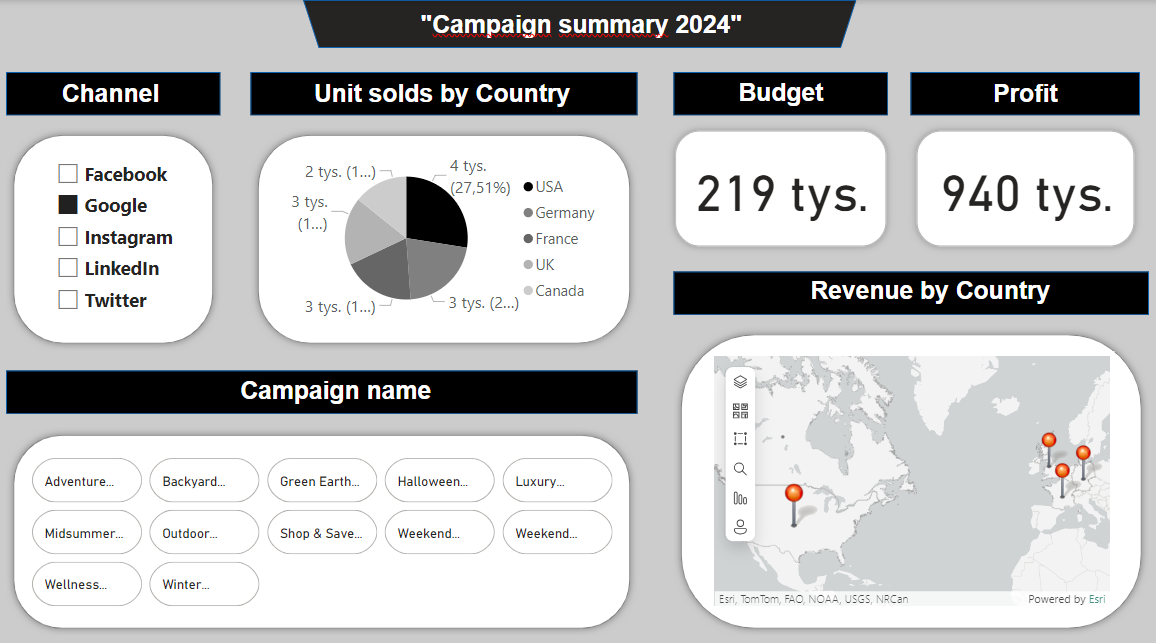
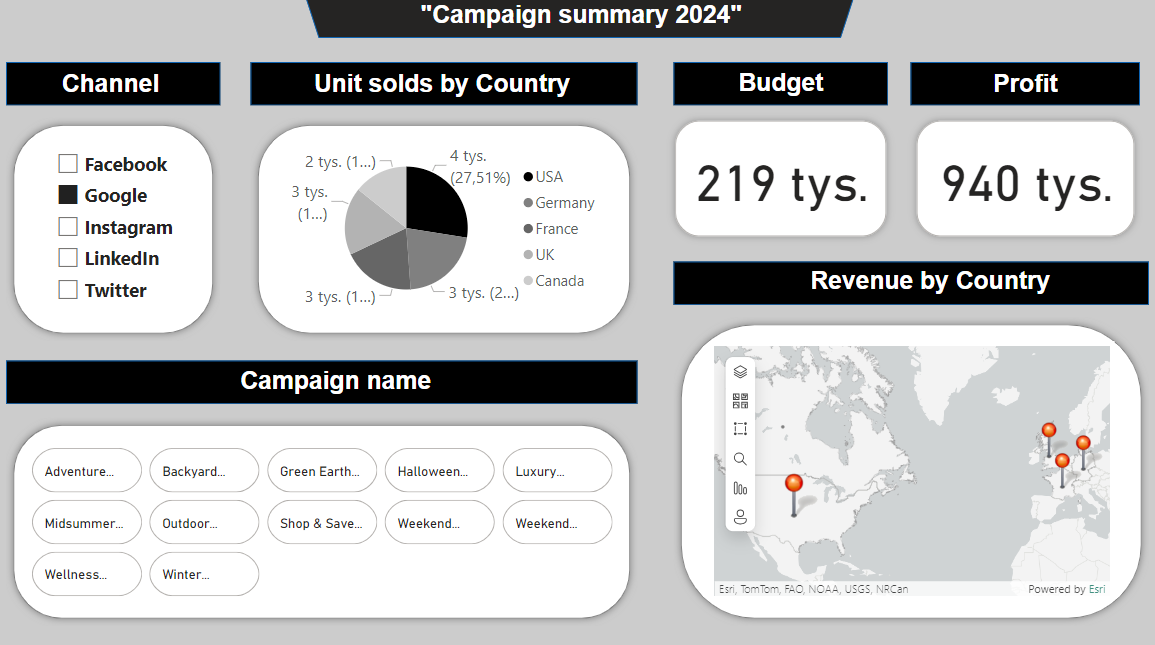
Naprawa błędu w img campaign

diff --git a/README.md b/README.md
@@ -1,1 +1,84 @@
-# Campaign-Insights-User-Analytics
+# Campaign Summary 2024
+
+## Project description
+
+Project Power BI is introducing a summary of the marketing campaign in 2024. It contains sales results, a profit analysis, and interaction with users across various marketing channels like Facebook, Google, Instagram, LinkedIn, and Twitter.  
+
+## Report structure
+
+The report consists of two main pages:
+
+1. **Campaign Summary**: This page presents the most important data of the campaign, such as the budget, profit, number of units sold, and analysis by country.
+
+2. **Second Hand Information**: This second page consists of a detailed analysis of conversions, the number of page visitors, profit analysis, and visitors by country.
+
+## Table of Contents
+- [Page 1](#campaign-summary-2024)
+- [Page 2](#second-hand-information)
+- [Data sources](#data-sources)
+- [Instruction manual](#instruction-manual)
+- [Crucial pointers (KPI)](#crucial-pointers-kpi)
+- [System requirements](#system-requirements)
+- [Authors](#authors)
+
+## Campaign Summary 2024:
+![Page 1](img/Campaign%20summary%202024.png)
+
+1) **Marketing channels**:
+   - Opportunities to filter data by your chosen channels (Facebook, Google, Instagram, LinkedIn, Twitter).
+
+2) **Unit sales by country**: 
+   - Pie chart visualizes the number of sold units divided into USA, Germany, France, Great Britain, and Canada.
+
+3) **Budget and profit**:
+   - Summarized values of the campaign budget ($219k) and generated profit ($940k).
+
+4) **Revenue by country**:
+   - A map with marked points of sales in the USA, Canada, Germany, Great Britain, and France.
+
+5) **Campaign name**:  
+   - A list of campaigns, like "Adventure," "Backyard," "Halloween," and various other projects. You can choose a specific campaign and see detailed data for it.
+
+## Second Hand Information:
+![Page 2](img/second%20info.png)
+
+1) **Number of conversions after clicks by users**:
+   - This pointer shows how many conversions were made based on clicks (1983 clicks out of 3966 possible).
+
+2) **Visited pages (generally)**:
+   - Information about the number of pages visited by users (11k).
+
+3) **Profit analysis**:
+   - A bar chart visualizing the profit analysis in various categories compared to revenue and campaign budget.
+
+4) **Visited pages by country**:
+   - An interactive map showing which country has page visitors, including the USA, Canada, Germany, Great Britain, and France.
+
+## Data sources
+
+Data used in the report comes from various sources, including tools for monitoring marketing campaigns and analyzing website conversions.
+  - Marketing channels: Facebook, Google, Instagram, LinkedIn, Twitter
+  - Sales data: markets such as USA, Canada, Germany, Great Britain, and France.
+
+## Instruction manual
+
+1) Open the Power BI project file (Project.pbix format) in Microsoft Power BI Desktop.
+2) Use the filter option available in the reports to search for campaign and marketing channel data that interests you. 
+3) Use interactive visualizations (such as maps and charts) to analyze sales results and user interactions.
+
+## Crucial pointers (KPI)
+
+- Budget
+- Profit
+- Conversions
+- Page visitors
+
+## System requirements
+
+- Microsoft Power BI Desktop (the newest version recommended)
+- Permissions to data sources if the project requires fresh data from other systems.
+
+## Authors:
+
+- Full name: Mikołaj Kocik
+- Contact: mikolajkocik@onet.pl
